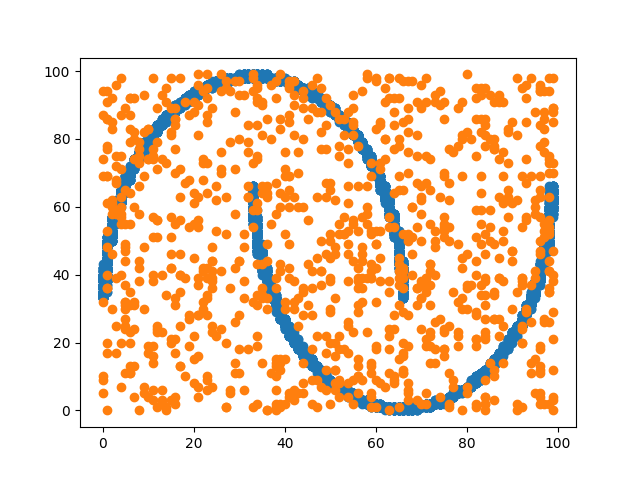
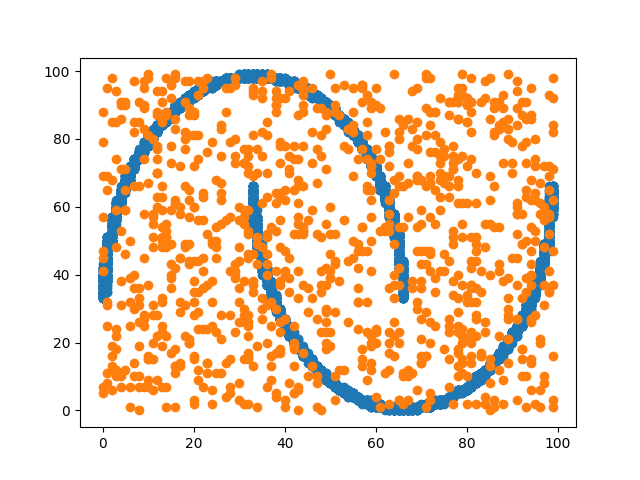
Some fixes

Changed region(s): [[0.1562, 0.125, 0.875, 0.875]]

diff --git a/check_opt_2d.py b/check_opt_2d.py
@@ -26,13 +26,13 @@ def build_data(m, n):
     return I_trn
 
 
-def check(m=10000, n=100, r=25, epochs=100, batch=100, lr=1.E-4, samples=1.E+3, device='cpu'):
+def check(m=10000, n=100, r=10, epochs=100, batch=100, lr=1.E-4, samples=1.E+3, device='cpu'):
     I_trn = build_data(m, n)
 
     Y = Node.random(n=[n]*2, r=[r], device=device)
 
-    def loss_func(X):
-        return Y.scalar_product() - 2 * torch.mean(Y.get(X))
+    def loss_func(I):
+        return Y.scalar_product() - 2 * torch.mean(Y.get(I))
 
     params = [G.requires_grad_() for G in Y.to_core_list()]
     optimizer = torch.optim.Adam(params, lr=lr)
@@ -44,7 +44,7 @@ def check(m=10000, n=100, r=25, epochs=100, batch=100, lr=1.E-4, samples=1.E+3, 
             loss.backward()
 
             l = loss.detach().numpy()
-            # print(l)
+            print(l)
 
             optimizer.step()
             optimizer.zero_grad()

diff --git a/ht/node.py b/ht/node.py
@@ -141,7 +141,7 @@ class Node():
         idx2 = self.R.sample(V[idx, :].squeeze())
         return idx1 + idx2
 
-        def scalar_product(self):
+    def scalar_product(self):
         if self.is_leaf:
             v = torch.einsum('jk->j', self.G)
         else:
@@ -149,7 +149,7 @@ class Node():
                 self.G, self.L.scalar_product(), self.R.scalar_product())
 
         if self.is_root:
-            v = v.item()
+            v = v #.item()
 
         return v
 
